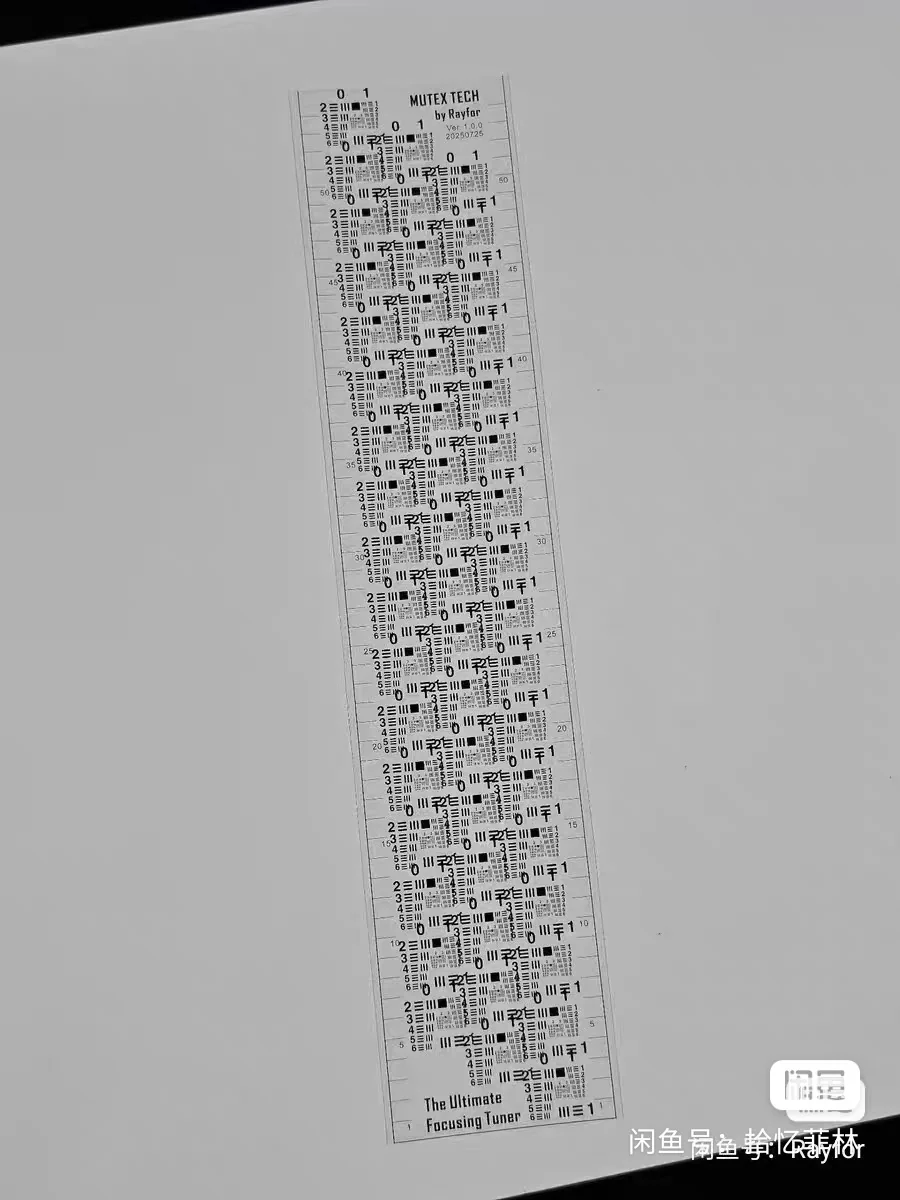
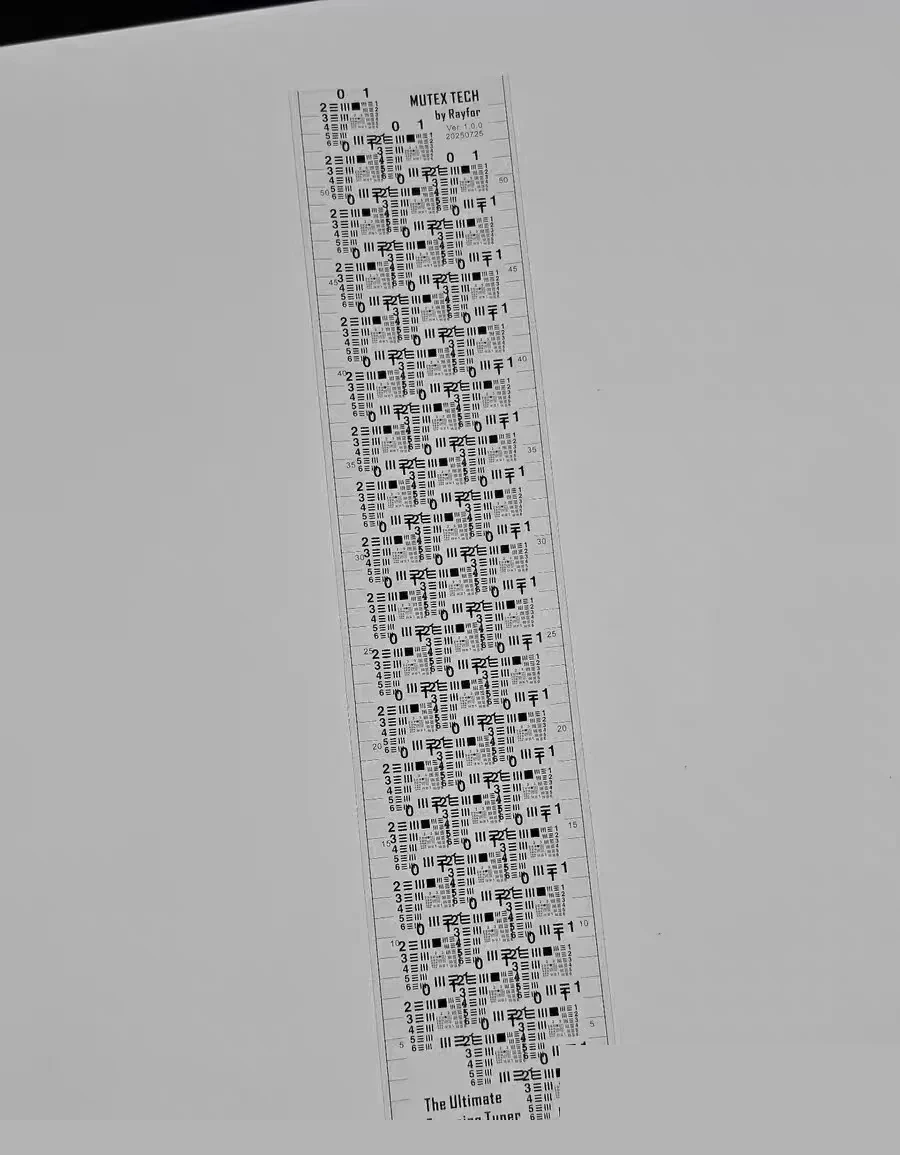
tilt-focus-sweep：清除实物图闲鱼水印并修复教程图片标签
- 调焦卡实物图裁掉右下角闲鱼水印与卖家昵称(他人个人信息)\n- 教程面板编辑丢失的 11 个显式 <img> 标签补回，避免 GitHub 图片不显示\n- 保留本轮对话输入格式改动

Changed region(s): [[0.3422, 0.0623, 1.0, 1.0], [0.0, 0.0312, 0.0622, 0.0623]]

diff --git a/tilt-focus-sweep/计算垫高教程.md b/tilt-focus-sweep/计算垫高教程.md
@@ -29,21 +29,24 @@
 
    <img src="skill流程_3.webp" alt="安装完成" width="600">
 
-   **\*\*\*\*\**   对话输入  \*\*\**         安装&#x20;**[**https://github.com/Typhoon-line/film-scan\_epson/tree/main/tilt-focus-sweep**](https://github.com/Typhoon-line/film-scan_epson/tree/main/tilt-focus-sweep)**&#x20; &#xA;**
+   *\*\*\*\**   对话输入  \*\*\**         安装 **<https://github.com/Typhoon-line/film-scan_epson/tree/main/tilt-focus-sweep>**    
+   \**
 4. **第 1 遍·粗测（第 1 张 TIFF）**：按大跨度装夹（B组 4mm / A组 0），扫描得到第 1 张 TIFF 喂给 AI。得到结果图。
 
-   **\*\*\*\*\**   对话输入  \*\*\**  
+   *\*\*\*\**   对话输入  \*\*\**  
    B组  垫高 4mm  
    D:\垫高计算\V700\img404.tif          （此处替换为扫描文件位置）  
-   一测  &#xA;**
+   一测    
+   \**
 
    <img src="skill流程_4.webp" alt="一测结果" width="500">
 5. **第 2 遍装夹**：按红字推荐结果 调整垫片高度——仍是**A组低 B组高**（跨度 1mm）。
 6. **第 2 遍·精测（第 2 张 TIFF）**：再次扫描得到第 2 张 TIFF 喂给 AI。结果图会给出最终推荐结果。
 
-   **\*\*\*\*\**   对话输入  \*\*\**  
+   *\*\*\*\**   对话输入  \*\*\**  
    D:\垫高计算\V700\img405.tif          （此处替换为扫描文件位置）  
-   二测  &#xA;**
+   二测    
+   \**
 
    <img src="skill流程_5.webp" alt="二测结果" width="500">
 7. **最终垫高**：4 个支脚统一垫到推荐结果高度，即可提升扫描精度。
@@ -52,7 +55,10 @@
 
 ---
 
-## 1. 脚本流程（七步）
+以下为说明  
+  
+1\. 脚本流程（七步）
+------------
 
 把 USAF 1951 黑白标靶装入 135 片夹（即「135 调焦卡」），片夹两端不对称垫高（按推荐流程即 B组 高于 A组），扫描得到长条图。沿长轴各段处于不同焦平面，必有一段恰好落在扫描仪最佳焦点。
 
